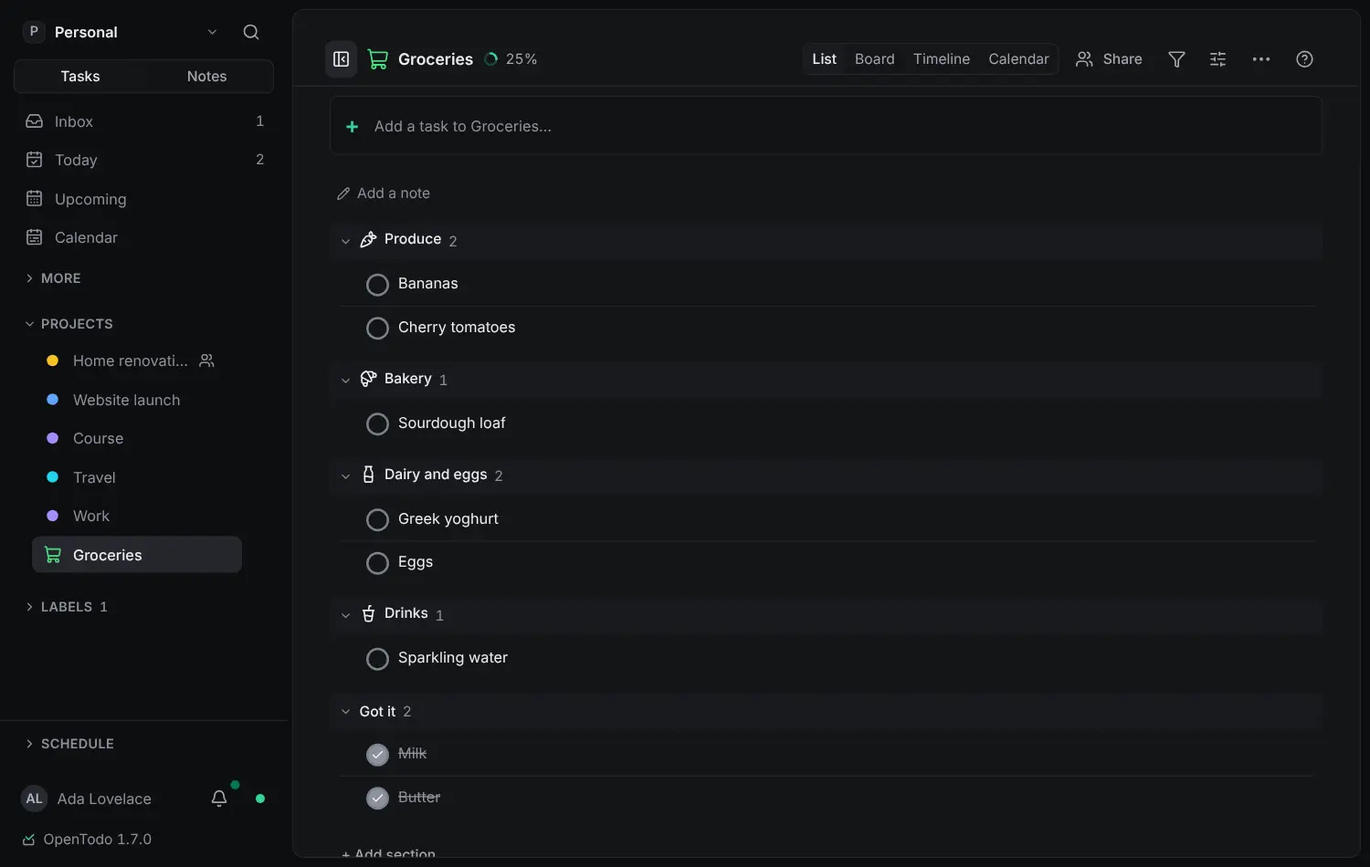
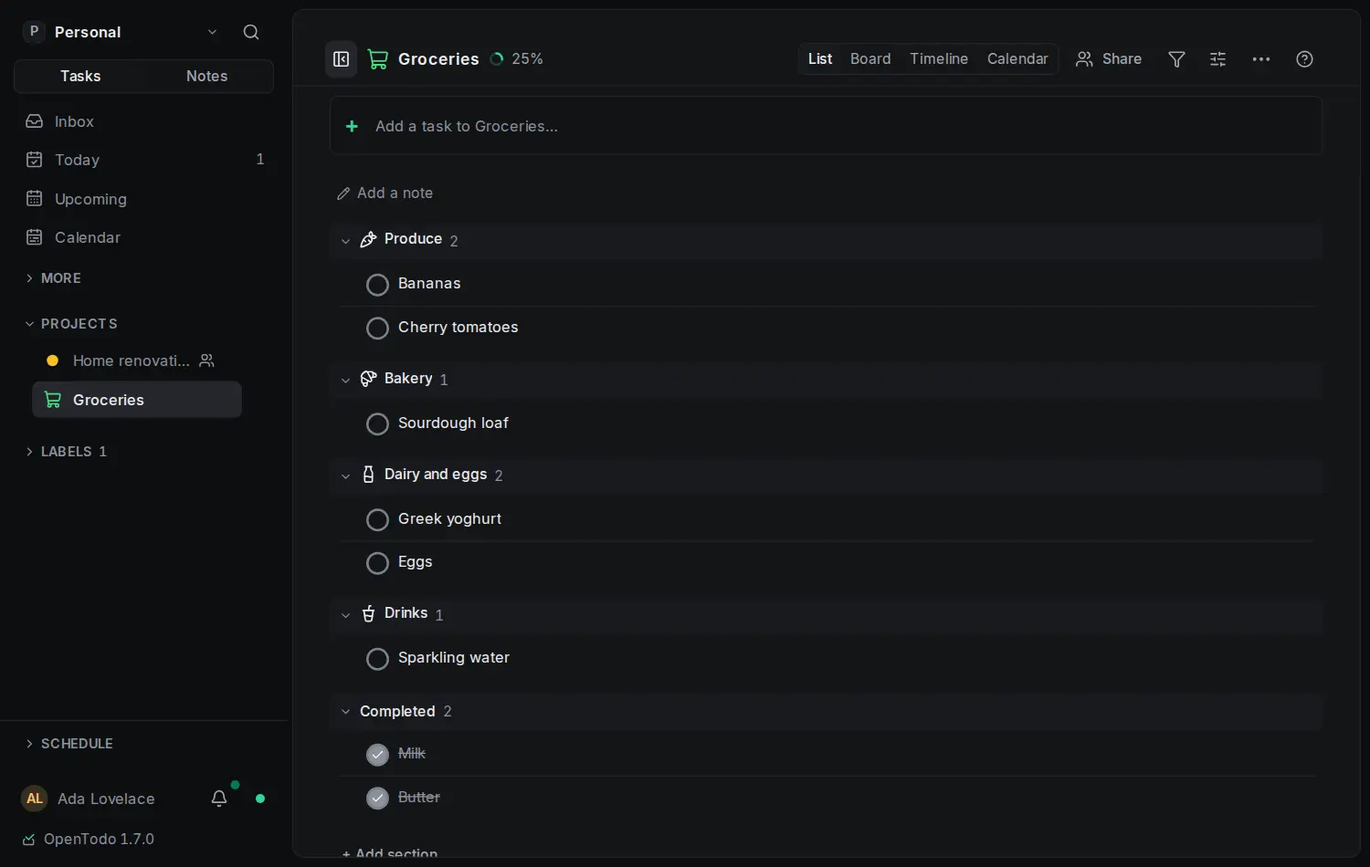
A reusable list's ticked items are under Completed (reusable-completed) (#1846)
* A reusable list's ticked items are under Completed (reusable-completed)

The group was headed "Got it", an acknowledgement that doesn't fit every
reusable list (packing, a dinner plan). It now reads "Completed" with the
same count and name as any project's group; it is still always shown in
a reusable list. The unused messages leave every catalogue.

* reusable-completed: the last "Got it" wording, and the screenshot redrawn

The reusable-lists Purpose and the docs index row still said "Got it";
the requirement reads "headed "Completed" with its count, like any
project's"; the reusable-list screenshot (light and dark) and its alt
text show the Completed group; useListModel cites reusable-completed D1.

* reusable-completed: the reusable list screenshot redrawn at 1.7.0

---------

diff --git a/web/src/app/quickAdd.reusable.test.tsx b/web/src/app/quickAdd.reusable.test.tsx
@@ -1,7 +1,7 @@
 // @vitest-environment happy-dom
 // Quick add in a reusable list (OpenSpec reusable-lists, tasks 4.2–4.4): an item
 // already on the list is reopened in place or pointed at, with a toast offering
-// Add anyway; the ticked items always show as "Got it"; duplicates converge.
+// Add anyway; the ticked items always show under "Completed"; duplicates converge.
 import 'fake-indexeddb/auto'
 import { act } from 'react'
 import { afterEach, beforeEach, describe, expect, it, vi } from 'vitest'
@@ -95,14 +95,14 @@ describe('adding to a reusable list', () => {
     expect(bulkToast()!.label).toBe('1 back on the list, 1 already there, 1 added')
   })
 
-  it('reopens from the list’s own quick add and keeps the Got it group whatever the device preference', async () => {
+  it('reopens from the list’s own quick add and keeps the Completed group whatever the device preference', async () => {
     const { pid, milk } = await groceries()
     expect(await loadShowCompleted(pid)).toBe(false)
     const r = await render(<TaskListView route={{ view: 'project', id: pid }} />)
     const group = () => r.container.querySelector<HTMLElement>('[data-completed-group]')
-    await waitFor(() => group() !== null, 'the Got it group')
-    expect(group()!.textContent).toContain('Got it')
-    expect(group()!.querySelector('[data-group-count] .sr-only')?.textContent).toBe('1 item ticked off')
+    await waitFor(() => group() !== null, 'the Completed group')
+    expect(group()!.textContent).toContain('Completed')
+    expect(group()!.querySelector('[data-group-count] .sr-only')?.textContent).toBe('1 completed task')
     // No "hidden by display options" line in a reusable list.
     expect(r.container.textContent).not.toContain('hidden by display options')
     const quick = r.container.querySelector('textarea[aria-label="Add a task"]') as HTMLTextAreaElement

diff --git a/web/src/app/task-list/useListModel.ts b/web/src/app/task-list/useListModel.ts
@@ -220,7 +220,7 @@ export function useListModel(route: ListRoute, userId?: string) {
   // With "Show completed tasks" on (project-completed-section), the list layout
   // keeps them in one Completed group at the end, newest first, closed by default.
   const showCompletedPref = useShowCompletedPref(projectId)
-  // A reusable list always ends with its ticked items, "Got it", on every device (reusable-lists D7).
+  // A reusable list always ends with its ticked items, under Completed, on every device (reusable-lists D7, reusable-completed D1).
   const reusable = !!projectId && isReusable(projectMap.get(projectId))
   const showCompleted = !!projectId && (showCompletedPref || reusable) && !board && !layout.timeline
   const completedTasks = useMemo(() => (showCompleted ? completedNewestFirst(doneBySection) : NO_TASKS), [showCompleted, doneBySection])
@@ -324,7 +324,7 @@ export function useListModel(route: ListRoute, userId?: string) {
     projectEditable: !!projectId && canEditTasks(roleOf(projectId, memberMap)),
     allTasks, taskMap, progress, blocked, flow, habits, ...filter, logbook, logbookLimit, setLogbookLimit, completedDisplay, completedQuery, setCompletedQuery,
     collapsed, toggleCollapsed, ...layout, tree, columns, groups: projectedGroups, rows, ownRows, siblingPos, timeColumn, slotsOff, doneBySection,
-    showCompleted, reusable, completedTasks, completedOpen, display, displayScope, listDisplay, urgency, nested, dayParts, closed, upcomingToday, upcomingThrough,
+    showCompleted, completedTasks, completedOpen, display, displayScope, listDisplay, urgency, nested, dayParts, closed, upcomingToday, upcomingThrough,
     queryFilter: queryKey ? queryFilter : null,
     /** Habits is on and this is Today (habits-home D3): the strip lists its habits. */
     todayHabits,

diff --git a/web/src/app/task-list/ListGroups.tsx b/web/src/app/task-list/ListGroups.tsx
@@ -409,7 +409,7 @@ export interface GroupedListProps {
   projects: Project[]
   labels: Label[]
   /** The project's Completed group at the end of the list (project-completed-section). */
-  completed?: { tasks: Task[]; open: boolean; onToggle: () => void; gotIt?: boolean }
+  completed?: { tasks: Task[]; open: boolean; onToggle: () => void }
   /** The always-visible actions of Today's Earlier group, for its task ids (page-rhythm D6). */
   earlierActions?: (ids: readonly string[]) => ReactNode
   /** Upcoming's calendar events for a day, drawn above its tasks and outside the count. */
@@ -795,10 +795,7 @@ function LogWinAction() {
 function CompletedGroup({ c, rowList, renderRow, fieldColumns }: { c: NonNullable<GroupedListProps['completed']>; rowList: RowList; renderRow: RenderRow; fieldColumns: boolean }) {
   return (
     <section role={fieldColumns ? 'rowgroup' : undefined} className="mb-4" data-completed-group>
-      {/* In a reusable list the ticked items are "Got it" (reusable-lists D7). */}
-      {c.gotIt
-        ? <ListGroupHeader title={t('Got it', { context: 'list' })} count={c.tasks.length} countLabel={(n) => t('{n, plural, one {# item ticked off} other {# items ticked off}}', { n })} collapsed={!c.open} onToggle={c.onToggle} />
-        : <ListGroupHeader title={t('Completed')} count={c.tasks.length} countLabel={(n) => t('{n, plural, one {# completed task} other {# completed tasks}}', { n })} collapsed={!c.open} onToggle={c.onToggle} />}
+      <ListGroupHeader title={t('Completed')} count={c.tasks.length} countLabel={(n) => t('{n, plural, one {# completed task} other {# completed tasks}}', { n })} collapsed={!c.open} onToggle={c.onToggle} />
       {c.open && rowList(renderListRows(c.tasks.map((task) => flatRow(task)), renderRow))}
     </section>
   )

diff --git a/web/src/app/TaskListView.tsx b/web/src/app/TaskListView.tsx
@@ -484,7 +484,7 @@ export function TaskListView({ route, userId, userRole }: { route: ListRoute; us
               contextualDrag={!!drag.draggingId && contextIds.has(drag.draggingId)}
               editable={m.projectEditable} renderRow={renderRow} addingTo={addingTo} setAddingTo={ui.setAddingTo} onToggleSection={toggleSection}
               doneBySection={m.showCompleted ? NO_DONE : m.doneBySection} revealed={revealed}
-              completed={m.showCompleted && projectId ? { tasks: m.completedTasks, open: m.completedOpen, onToggle: () => m.toggleCollapsed(completedOpenKey(projectId)), gotIt: m.reusable } : undefined} toggleCollapsed={m.toggleCollapsed} collapsedGroups={collapsedGroups} projects={m.projects} labels={m.labels}
+              completed={m.showCompleted && projectId ? { tasks: m.completedTasks, open: m.completedOpen, onToggle: () => m.toggleCollapsed(completedOpenKey(projectId)) } : undefined} toggleCollapsed={m.toggleCollapsed} collapsedGroups={collapsedGroups} projects={m.projects} labels={m.labels}
               earlierActions={route.view === 'today' || m.upcomingToday ? earlierActions : undefined}
               eventsFor={upcomingCal.eventsFor} summarised={summarised}
               onReveal={(key) => setRevealed((s) => { const n = new Set(s); if (n.has(key)) n.delete(key); else n.add(key); return n })} />

diff --git a/openspec/specs/task-list-presentation/spec.md b/openspec/specs/task-list-presentation/spec.md
@@ -429,7 +429,7 @@ The keyboard cursor of a task list SHALL be real focus: when the cursor moves to
 - **THEN** its complete button is named "Complete Pack"
 
 ### Requirement: Completed group in a project
-Outside a reusable list (OpenSpec `reusable-lists`), a project's Project menu SHALL offer "Show completed tasks" in the list layout and in the board layout, one preference of the device per project, shared by both layouts, off by default and never synced. While it is on, the project's list SHALL end with a "Completed" group holding every completed (not skipped) task of the project, most recently completed first, and the project's board SHALL end with a Completed column (`sections-and-boards` "Completed column on a project board"). The group SHALL be closed by default with its count on the heading, and its open or closed state SHALL be remembered on the device. Completing a task SHALL move it into the group; unticking a task in the group SHALL reopen it and return it among the open tasks. While it is off and the project has completed tasks, a list with open tasks SHALL end with one line, "n completed tasks hidden by display options" and a Show link that turns the preference on. The timeline SHALL be unchanged. In a reusable list the group SHALL always be shown, headed "Got it", whatever the device preference, the Project menu SHALL NOT offer the preference, and the hidden-tasks line SHALL NOT appear. A completed task's circle SHALL show the filled check without the priority ring. The preference SHALL work offline, and since it is never synced there is nothing to converge.
+Outside a reusable list (OpenSpec `reusable-lists`), a project's Project menu SHALL offer "Show completed tasks" in the list layout and in the board layout, one preference of the device per project, shared by both layouts, off by default and never synced. While it is on, the project's list SHALL end with a "Completed" group holding every completed (not skipped) task of the project, most recently completed first, and the project's board SHALL end with a Completed column (`sections-and-boards` "Completed column on a project board"). The group SHALL be closed by default with its count on the heading, and its open or closed state SHALL be remembered on the device. Completing a task SHALL move it into the group; unticking a task in the group SHALL reopen it and return it among the open tasks. While it is off and the project has completed tasks, a list with open tasks SHALL end with one line, "n completed tasks hidden by display options" and a Show link that turns the preference on. The timeline SHALL be unchanged. In a reusable list the group SHALL always be shown, headed "Completed" like any other, whatever the device preference, the Project menu SHALL NOT offer the preference, and the hidden-tasks line SHALL NOT appear. A completed task's circle SHALL show the filled check without the priority ring. The preference SHALL work offline, and since it is never synced there is nothing to converge.
 
 #### Scenario: Groceries reused
 - **WHEN** a user turns on "Show completed tasks" in a Groceries project where Milk and Eggs were ticked off, Eggs last, and opens the Completed group
@@ -449,7 +449,7 @@ Outside a reusable list (OpenSpec `reusable-lists`), a project's Project menu SH
 
 #### Scenario: Reusable list ignores the device preference
 - **WHEN** a device with "Show completed tasks" off opens a reusable list where Milk was ticked off
-- **THEN** the list ends with "Got it 1" holding Milk, and the Project menu has no "Show completed tasks" item
+- **THEN** the list ends with "Completed 1" holding Milk, and the Project menu has no "Show completed tasks" item
 
 ### Requirement: Inline title editing
 On a fine pointer from 768 px wide, with the panel closed and the device preference "Click a task to" set to "Edit in place" (the default), clicking a task's title in a list SHALL select the row and turn its title into a text field in place, with the caret where the user clicked. `F2` on a selected row SHALL do the same with the caret at the end. Enter or a click outside the row SHALL save the title, Esc SHALL discard the title change and leave the row selected, and `Shift+Enter` SHALL save and open the task panel. Only one row SHALL be edited inline at a time, and that row SHALL not start a drag, so pressing and moving in its field selects text; the other rows stay draggable. Edits SHALL apply locally at once, work offline and converge per field like any title edit. Viewers SHALL never get the inline editor. With the preference set to "Open details", on a coarse pointer, below 768 px, or while the panel is open, a click SHALL open the task in the panel as before; with "Expand the row" a click SHALL show or hide the row's details instead ("Click a task to" and double-click). A click on a row's or a board card's empty area (anything that is not the title, the checkbox, the chevron, the selection box, a link or a revealed action: the padding, the gaps, the leading slot, the trailing space) SHALL select the task and open it in the panel under "Edit in place" and "Open details" and on any pointer (under "Expand the row" it expands the row), Shift or Ctrl/⌘ on it SHALL tick the row as on the title, and a drag or a swipe that ends on it SHALL not open anything. The row's controls keep their own actions and the keyboard behaviour is unchanged.

diff --git a/openspec/specs/reusable-lists/spec.md b/openspec/specs/reusable-lists/spec.md
@@ -1,7 +1,7 @@
 # reusable-lists Specification
 
 ## Purpose
-Lets a project be a reusable list, such as groceries or packing: adding an item already on it reopens that item instead of duplicating it, ticked items stay in a Got it group on every device, duplicates two devices added converge on one item, and new items can be sorted into aisle sections. Defines the title matching the web client and the server share and the reuse flag of the task API.
+Lets a project be a reusable list, such as groceries or packing: adding an item already on it reopens that item instead of duplicating it, ticked items stay in its Completed group on every device, duplicates two devices added converge on one item, and new items can be sorted into aisle sections. Defines the title matching the web client and the server share and the reuse flag of the task API.
 
 ## Requirements
 
@@ -48,11 +48,11 @@ In a reusable list, adding a task from quick add whose title normalizes equal to
 - **THEN** both produce the same normalized title and the same chosen match for every vector
 
 ### Requirement: Ticked items stay in a reusable list
-A reusable list SHALL end with a completed group headed "Got it" and its count on every device, whatever the device's "Show completed tasks" preference, most recently completed first, closed by default with its open state remembered per device. Unticking an item in the group SHALL reopen it. The Project menu SHALL NOT offer "Show completed tasks" in a reusable list, and the line "n completed tasks hidden" SHALL NOT appear there.
+A reusable list SHALL end with a completed group headed "Completed" with its count, like any project's, on every device, whatever the device's "Show completed tasks" preference, most recently completed first, closed by default with its open state remembered per device. Unticking an item in the group SHALL reopen it. The Project menu SHALL NOT offer "Show completed tasks" in a reusable list, and the line "n completed tasks hidden" SHALL NOT appear there.
 
 #### Scenario: Partner's phone
 - **WHEN** Alice ticks off Eggs in the shared reusable "Groceries" and Bob, who never changed any display preference, opens it after sync
-- **THEN** Bob's list ends with "Got it 1" holding Eggs
+- **THEN** Bob's list ends with "Completed 1" holding Eggs
 
 ### Requirement: Duplicate items converge
 When a device that may edit a reusable list holds two or more live, open, top-level tasks of that project whose titles normalize equal, and none of them has notes, subtasks, comments, attachments, reminders, time entries or a recurrence rule, the device SHALL tombstone all of them except the one with the smallest id, as ordinary deletions shown in the activity log as a merged duplicate and restorable from the Trash. Because every device chooses the same survivor, devices SHALL converge on one item without coordination. A task that carries any of those things SHALL never be tombstoned this way. Viewers' devices SHALL NOT perform it.

diff --git a/openspec/changes/archive/2026-11-22-reusable-completed/specs/task-list-presentation/spec.md b/openspec/changes/archive/2026-11-22-reusable-completed/specs/task-list-presentation/spec.md
@@ -1,0 +1,24 @@
+## MODIFIED Requirements
+
+### Requirement: Completed group in a project
+Outside a reusable list (OpenSpec `reusable-lists`), a project's Project menu SHALL offer "Show completed tasks" in the list layout and in the board layout, one preference of the device per project, shared by both layouts, off by default and never synced. While it is on, the project's list SHALL end with a "Completed" group holding every completed (not skipped) task of the project, most recently completed first, and the project's board SHALL end with a Completed column (`sections-and-boards` "Completed column on a project board"). The group SHALL be closed by default with its count on the heading, and its open or closed state SHALL be remembered on the device. Completing a task SHALL move it into the group; unticking a task in the group SHALL reopen it and return it among the open tasks. While it is off and the project has completed tasks, a list with open tasks SHALL end with one line, "n completed tasks hidden by display options" and a Show link that turns the preference on. The timeline SHALL be unchanged. In a reusable list the group SHALL always be shown, headed "Completed" like any other, whatever the device preference, the Project menu SHALL NOT offer the preference, and the hidden-tasks line SHALL NOT appear. A completed task's circle SHALL show the filled check without the priority ring. The preference SHALL work offline, and since it is never synced there is nothing to converge.
+
+#### Scenario: Groceries reused
+- **WHEN** a user turns on "Show completed tasks" in a Groceries project where Milk and Eggs were ticked off, Eggs last, and opens the Completed group
+- **THEN** the group's heading reads "Completed 2", Eggs is listed above Milk, both show a ticked circle, and unticking Milk puts it back among the open tasks
+
+#### Scenario: Off by default
+- **WHEN** a user opens a project they never changed the setting for
+- **THEN** no Completed group is shown, completed tasks are only in the Completed view, and the list ends with "2 completed tasks hidden by display options · Show" when two were completed
+
+#### Scenario: Board layout
+- **WHEN** the project is shown as a board and the user opens the Project menu
+- **THEN** it offers "Show completed tasks", and with it on the board ends with a folded Completed column
+
+#### Scenario: One preference for both layouts
+- **WHEN** the user turns on "Show completed tasks" from the Project menu of "Renovation" in the board layout and switches to the list layout
+- **THEN** the list ends with the Completed group, and on the user's phone, where the preference was never changed, neither layout shows completed tasks
+
+#### Scenario: Reusable list ignores the device preference
+- **WHEN** a device with "Show completed tasks" off opens a reusable list where Milk was ticked off
+- **THEN** the list ends with "Completed 1" holding Milk, and the Project menu has no "Show completed tasks" item

diff --git a/docs/reusable-lists.md b/docs/reusable-lists.md
@@ -1,6 +1,6 @@
 ---
 title: Reusable lists
-summary: Make a project a reusable list for groceries or packing, so adding an item that is already there brings it back and ticked items stay in a Got it group.
+summary: Make a project a reusable list for groceries or packing, so adding an item that is already there brings it back and ticked items stay in its Completed group.
 audience: user
 section: Guides
 specs: [reusable-lists]
@@ -9,12 +9,12 @@ order: 19
 ---
 # Reusable lists
 
-<picture><source srcset="images/reusable-list-dark.webp" media="(prefers-color-scheme: dark)"><img src="images/reusable-list-light.webp" alt="The Groceries project as a reusable list: open items in the Produce, Bakery, Dairy and eggs and Drinks sections, and at the end a Got it group, opened, holding the ticked-off Milk and Butter."></picture>
+<picture><source srcset="images/reusable-list-dark.webp" media="(prefers-color-scheme: dark)"><img src="images/reusable-list-light.webp" alt="The Groceries project as a reusable list: open items in the Produce, Bakery, Dairy and eggs and Drinks sections, and at the end a Completed group, opened, holding the ticked-off Milk and Butter."></picture>
 
 Some lists come back every week: groceries, the pharmacy, packing. Make such a project a **reusable list**:
 
 - Adding an item that is already there brings it back instead of creating a second one.
-- Ticked items stay at the end of the list, in a **Got it** group, on every member's devices.
+- Ticked items stay at the end of the list, in its **Completed** group, on every member's devices.
 - New items can [sort themselves into aisles](reusable-list-aisles.md).
 - It shows no "% done": a list you restock is never finished.
 
@@ -41,9 +41,9 @@ When you paste several lines, each line follows the same rule, and one message c
 
 This works offline: the list is matched on your device.
 
-## Ticked items: Got it
+## Ticked items: Completed
 
-A reusable list always ends with a **Got it** group holding its ticked items, newest first, on every device. The board and the timeline show open items only. The group starts closed; click its heading to open it. Untick an item there, or add it again, and it is back on the list. The Project menu has no **Show completed tasks** here.
+A reusable list always ends with a **Completed** group holding its ticked items, newest first, on every device. The board and the timeline show open items only. The group starts closed; click its heading to open it. Untick an item there, or add it again, and it is back on the list. The Project menu has no **Show completed tasks** here.
 
 ## When two people add the same item
 

diff --git a/docs/README.md b/docs/README.md
@@ -34,7 +34,7 @@ The same guides are published, with screenshots and search, at [open-todo.app/do
 | &nbsp;&nbsp;↳ [All projects](all-projects.md) | Every project in a table with its health, progress, open tasks, next due date, people and last change; how health is worked out, sorting, the keyboard and the Archived tab. |
 | &nbsp;&nbsp;↳ [Project notes](project-notes.md) | The note at the top of a project: what it is for, who can edit it, Shift+P, folding long notes, and how the API and history see it. |
 | &nbsp;&nbsp;↳ [Completed tasks in a project](completed-in-projects.md) | Keep a project's completed tasks at the end of its list in a Completed group, for lists you tick off and reuse such as groceries. |
-| &nbsp;&nbsp;↳ [Reusable lists](reusable-lists.md) | Make a project a reusable list for groceries or packing, so adding an item that is already there brings it back and ticked items stay in a Got it group. |
+| &nbsp;&nbsp;↳ [Reusable lists](reusable-lists.md) | Make a project a reusable list for groceries or packing, so adding an item that is already there brings it back and ticked items stay in its Completed group. |
 | &nbsp;&nbsp;↳ [Sort a list into aisles](reusable-list-aisles.md) | Let new items of a reusable list go to aisle sections such as Produce or Dairy and eggs, and reuse items from the API, the command line and AI assistants. |
 | [Views](views.md) | Inbox, Today, Upcoming, Assigned to me, Completed and the calendar, plus views you save yourself, dashboards and the view each device opens on. |
 | &nbsp;&nbsp;↳ [The built-in views](built-in-views.md) | What Inbox, Today, Upcoming, Anytime, Someday, Assigned to me, Calendar, Completed, Filter, Trash and Updates show, their shortcuts, and the duration filter. |

diff --git a/openspec/changes/archive/2026-11-22-reusable-completed/proposal.md b/openspec/changes/archive/2026-11-22-reusable-completed/proposal.md
@@ -1,0 +1,31 @@
+# A reusable list's ticked items are under Completed
+
+## Why
+
+A reusable grocery list ended with "Got it 28". "Got it" reads as an acknowledgement (the assistant's disclosure notice uses the same words for that), and it says something about a shopping trip that isn't true of every reusable list, such as a packing list or a weekly dinner plan. Every other project calls the same group "Completed".
+
+## What Changes
+
+- A reusable list's completed group is headed **Completed**, with the same count and screen-reader name ("28 completed tasks") as any project's.
+- Everything else about the group is unchanged: always shown, whatever the device preference; closed by default; newest first; unticking reopens.
+- The "Got it" (list) and "items ticked off" messages are removed from every catalogue.
+
+No new op field, setting, route or dependency. Not **BREAKING**.
+
+## Out of scope
+
+- The docs screenshot of a reusable list (`docs/images/reusable-list-*.webp`), which shows the old heading until `make docs-screenshots` is next run.
+
+ROADMAP.md: none (follows `reusable-lists`).
+
+## Capabilities
+
+### Modified Capabilities
+
+- `reusable-lists`: "Ticked items stay in a reusable list" names the group Completed.
+- `task-list-presentation`: "Completed group in a project" drops the "Got it" heading.
+
+## Impact
+
+- Web: `web/src/app/task-list/ListGroups.tsx` (one header for every project), `TaskListView.tsx`, `task-list/useListModel.ts`; the catalogues.
+- Docs: `docs/reusable-lists.md`, `docs/completed-in-projects.md`, `docs/reusable-list-aisles.md`; `changelog.d/Changed/reusable-completed.md`.

diff --git a/docs/reusable-list-aisles.md b/docs/reusable-list-aisles.md
@@ -20,7 +20,7 @@ With **Reusable list** on, the **List…** step also offers **Sort into aisles**
 A new item then goes to the aisle section its name suggests. "Greek yoghurt" goes to Dairy and eggs, "Bananas" to Produce. The words come from a list built into the app for each app language, with English as a fallback, and never leave your device.
 
 - Each aisle section remembers its aisle, so you can rename it ("Fridge"), move it or give it another icon and items still find it. Members using another language find it too.
-- An item reopened from **Got it** stays in the section it was in. Move "Oat drink" to another section once and it comes back there.
+- An item reopened from **Completed** stays in the section it was in. Move "Oat drink" to another section once and it comes back there.
 - An item whose words are not in the list goes where quick add puts it today: the section you are adding to, or **No section**.
 - Adding inside a section, from its own **+**, always puts the item there.
 

diff --git a/openspec/changes/archive/2026-11-22-reusable-completed/specs/reusable-lists/spec.md b/openspec/changes/archive/2026-11-22-reusable-completed/specs/reusable-lists/spec.md
@@ -1,0 +1,8 @@
+## MODIFIED Requirements
+
+### Requirement: Ticked items stay in a reusable list
+A reusable list SHALL end with a completed group headed "Completed" with its count, like any project's, on every device, whatever the device's "Show completed tasks" preference, most recently completed first, closed by default with its open state remembered per device. Unticking an item in the group SHALL reopen it. The Project menu SHALL NOT offer "Show completed tasks" in a reusable list, and the line "n completed tasks hidden" SHALL NOT appear there.
+
+#### Scenario: Partner's phone
+- **WHEN** Alice ticks off Eggs in the shared reusable "Groceries" and Bob, who never changed any display preference, opens it after sync
+- **THEN** Bob's list ends with "Completed 1" holding Eggs
